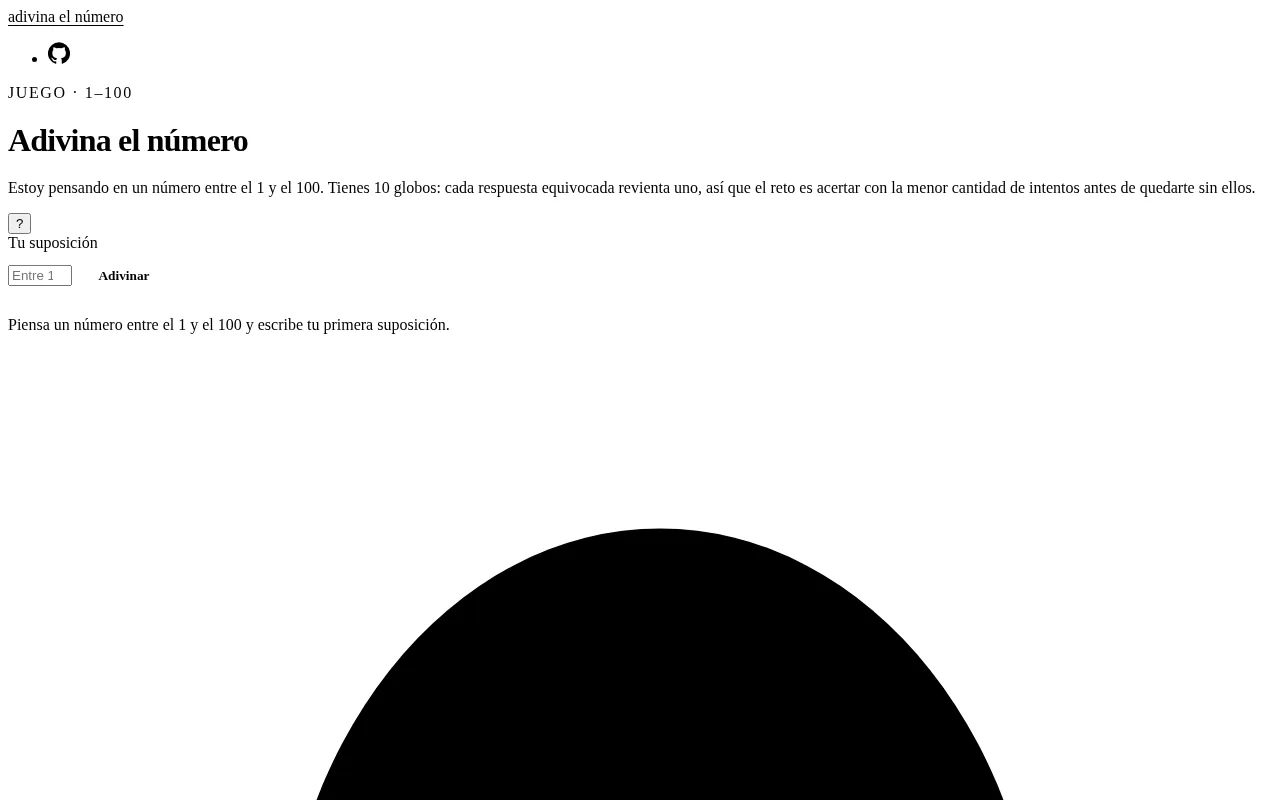
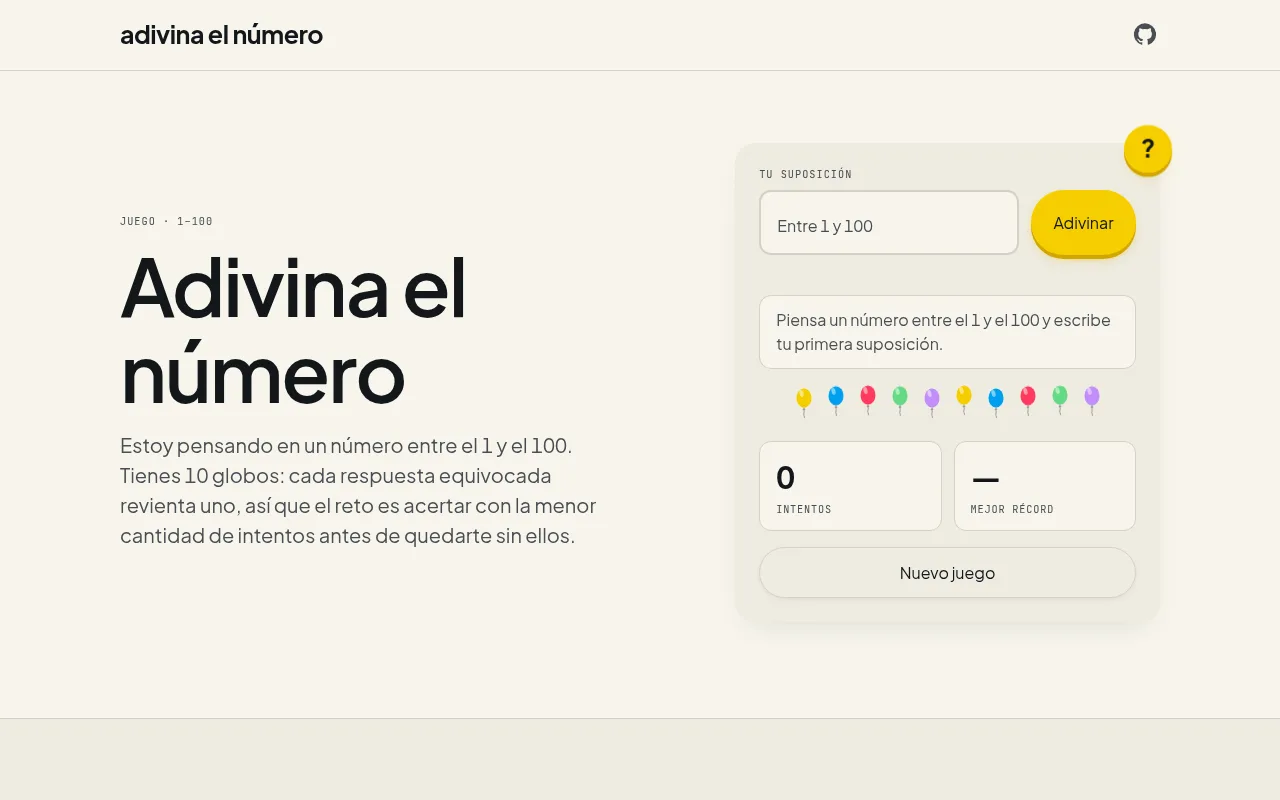
fix/webs: Apis deja de ser subcatálogo y recupera su CSS el juego de adivinar (#141)
El portal de APIs se anunciaba como subcatálogo aunque es una web normal, así
que se retira la marca. En el juego, los @import quedaron dentro de @layer base
y el navegador los descartaba: reset, tokens, componentes y página no llegaban
a cargarse.

🤖 Generated with Codebuff

diff --git a/web-juegos/juego-adivina-numero/css/style.css b/web-juegos/juego-adivina-numero/css/style.css
@@ -1,10 +1,3 @@
-@layer base {
-/* Hallmark · genre: playful · macrostructure: Marquee Hero · theme: Hum
- * enrichment: none (typography only, Tier-A CSS character mark) · nav: N1a · footer: Ft8
- * pre-emit critique: P5 H4 E5 S4 R5 V5
- * contrast: pass (40–41) · slop: pass (42–45) · honest: pass (46) · chrome: pass (47)
- * tokens: pass (48) · responsive: pass (49) · mobile: pass (34, 49, 50–57) */
-
 @import url("reset.css");
 @import url("tokens.css");
 @import url("components/game.css");
@@ -12,169 +5,182 @@
 @import url("components/balloons.css");
 @import url("pages/home.css");
 
-/* ── Base ─────────────────────────────────────────── */
-html,
-body {
-  overflow-x: clip;
-}
+@layer base {
+    /* Hallmark · genre: playful · macrostructure: Marquee Hero · theme: Hum
+ * enrichment: none (typography only, Tier-A CSS character mark) · nav: N1a · footer: Ft8
+ * pre-emit critique: P5 H4 E5 S4 R5 V5
+ * contrast: pass (40–41) · slop: pass (42–45) · honest: pass (46) · chrome: pass (47)
+ * tokens: pass (48) · responsive: pass (49) · mobile: pass (34, 49, 50–57) */
 
-body {
-  background: var(--color-paper);
-  color: var(--color-ink);
-  font-family: var(--font-body);
-  font-variant-numeric: tabular-nums;
-}
+    /* ── Base ─────────────────────────────────────────── */
+    html,
+    body {
+        overflow-x: clip;
+    }
 
-h1,
-h2,
-h3 {
-  font-family: var(--font-display);
-  font-weight: 600;
-  letter-spacing: -0.025em;
-  line-height: 1.08;
-}
+    body {
+        background: var(--color-paper);
+        color: var(--color-ink);
+        font-family: var(--font-body);
+        font-variant-numeric: tabular-nums;
+    }
 
-a {
-  color: var(--color-accent-2);
-  text-underline-offset: 3px;
-  text-decoration-thickness: 1px;
-}
+    h1,
+    h2,
+    h3 {
+        font-family: var(--font-display);
+        font-weight: 600;
+        letter-spacing: -0.025em;
+        line-height: 1.08;
+    }
 
-:focus-visible {
-  outline: 3px solid var(--color-focus);
-  outline-offset: 3px;
-}
+    a {
+        color: var(--color-accent-2);
+        text-underline-offset: 3px;
+        text-decoration-thickness: 1px;
+    }
 
-/* Etiquetas en mono: solo para labels cortos y mayúsculas */
-.mono-label {
-  font-family: var(--font-label);
-  font-size: var(--text-xs);
-  letter-spacing: 0.1em;
-  text-transform: uppercase;
-  color: var(--color-ink-2);
-}
+    :focus-visible {
+        outline: 3px solid var(--color-focus);
+        outline-offset: 3px;
+    }
 
-.visually-hidden {
-  position: absolute;
-  width: 1px;
-  height: 1px;
-  padding: 0;
-  margin: -1px;
-  overflow: hidden;
-  clip: rect(0 0 0 0);
-  white-space: nowrap;
-  border: 0;
-}
+    /* Etiquetas en mono: solo para labels cortos y mayúsculas */
+    .mono-label {
+        font-family: var(--font-label);
+        font-size: var(--text-xs);
+        letter-spacing: 0.1em;
+        text-transform: uppercase;
+        color: var(--color-ink-2);
+    }
 
-.skip-link {
-  position: absolute;
-  top: var(--space-sm);
-  left: var(--page-gutter);
-  z-index: var(--z-sticky);
-  transform: translateY(-300%);
-  padding: var(--space-sm) var(--space-md);
-  border-radius: var(--radius-pill);
-  background: var(--color-ink);
-  color: var(--color-paper);
-  font-weight: 600;
-  text-decoration: none;
-  transition: transform var(--dur-short) var(--ease-out);
-}
+    .visually-hidden {
+        position: absolute;
+        width: 1px;
+        height: 1px;
+        padding: 0;
+        margin: -1px;
+        overflow: hidden;
+        clip: rect(0 0 0 0);
+        white-space: nowrap;
+        border: 0;
+    }
 
-.skip-link:focus-visible {
-  transform: translateY(0);
-}
+    .skip-link {
+        position: absolute;
+        top: var(--space-sm);
+        left: var(--page-gutter);
+        z-index: var(--z-sticky);
+        transform: translateY(-300%);
+        padding: var(--space-sm) var(--space-md);
+        border-radius: var(--radius-pill);
+        background: var(--color-ink);
+        color: var(--color-paper);
+        font-weight: 600;
+        text-decoration: none;
+        transition: transform var(--dur-short) var(--ease-out);
+    }
 
-/* ── Sistema de botones Hum (push / soft) ────────── */
-.btn {
-  --btn-face: var(--color-accent);
-  --btn-ink: var(--color-ink);
-  --btn-edge: var(--color-accent-deep);
-  --btn-cast: var(--shadow-btn-cast);
-  display: inline-flex;
-  align-items: center;
-  justify-content: center;
-  gap: 0.5em;
-  min-height: 3rem;
-  padding: 0.8rem 1.4rem;
-  font-family: var(--font-body);
-  font-weight: 600;
-  border: 0;
-  border-radius: var(--radius-pill);
-  color: var(--btn-ink);
-  background: var(--btn-face);
-  cursor: pointer;
-  position: relative;
-  isolation: isolate;
-  white-space: nowrap;
-  box-shadow: 0 4px 0 0 var(--btn-edge), 0 6px 12px -3px var(--btn-cast);
-  transform: translateY(0);
-  transition: transform 140ms cubic-bezier(0.2, 0.7, 0.3, 1),
-    box-shadow 140ms cubic-bezier(0.2, 0.7, 0.3, 1),
-    background-color 160ms var(--ease-out);
-}
+    .skip-link:focus-visible {
+        transform: translateY(0);
+    }
 
-.btn:hover {
-  transform: translateY(-2px);
-  box-shadow: 0 6px 0 0 var(--btn-edge), 0 12px 22px -4px var(--btn-cast);
-}
+    /* ── Sistema de botones Hum (push / soft) ────────── */
+    .btn {
+        --btn-face: var(--color-accent);
+        --btn-ink: var(--color-ink);
+        --btn-edge: var(--color-accent-deep);
+        --btn-cast: var(--shadow-btn-cast);
+        display: inline-flex;
+        align-items: center;
+        justify-content: center;
+        gap: 0.5em;
+        min-height: 3rem;
+        padding: 0.8rem 1.4rem;
+        font-family: var(--font-body);
+        font-weight: 600;
+        border: 0;
+        border-radius: var(--radius-pill);
+        color: var(--btn-ink);
+        background: var(--btn-face);
+        cursor: pointer;
+        position: relative;
+        isolation: isolate;
+        white-space: nowrap;
+        box-shadow:
+            0 4px 0 0 var(--btn-edge),
+            0 6px 12px -3px var(--btn-cast);
+        transform: translateY(0);
+        transition:
+            transform 140ms cubic-bezier(0.2, 0.7, 0.3, 1),
+            box-shadow 140ms cubic-bezier(0.2, 0.7, 0.3, 1),
+            background-color 160ms var(--ease-out);
+    }
 
-.btn:active {
-  transform: translateY(3px);
-  box-shadow: 0 1px 0 0 var(--btn-edge), 0 2px 6px -2px var(--btn-cast);
-  transition-duration: 70ms;
-}
+    .btn:hover {
+        transform: translateY(-2px);
+        box-shadow:
+            0 6px 0 0 var(--btn-edge),
+            0 12px 22px -4px var(--btn-cast);
+    }
 
-.btn:focus-visible {
-  outline: 3px solid
-    color-mix(in oklch, var(--btn-edge) 70%, var(--color-focus));
-  outline-offset: 3px;
-}
+    .btn:active {
+        transform: translateY(3px);
+        box-shadow:
+            0 1px 0 0 var(--btn-edge),
+            0 2px 6px -2px var(--btn-cast);
+        transition-duration: 70ms;
+    }
 
-.btn[disabled] {
-  opacity: 0.5;
-  cursor: not-allowed;
-  pointer-events: none;
-  transform: none;
-  box-shadow: 0 4px 0 0 var(--btn-edge);
-}
+    .btn:focus-visible {
+        outline: 3px solid color-mix(in oklch, var(--btn-edge) 70%, var(--color-focus));
+        outline-offset: 3px;
+    }
 
-.btn--soft {
-  --btn-face: var(--color-paper-2);
-  --btn-ink: var(--color-ink);
-  --btn-edge: transparent;
-  --btn-cast: var(--shadow-soft);
-  border: 1px solid var(--color-rule);
-  box-shadow: var(--shadow-soft);
-}
+    .btn[disabled] {
+        opacity: 0.5;
+        cursor: not-allowed;
+        pointer-events: none;
+        transform: none;
+        box-shadow: 0 4px 0 0 var(--btn-edge);
+    }
 
-.btn--soft:hover {
-  box-shadow: var(--shadow-soft-hover);
-}
+    .btn--soft {
+        --btn-face: var(--color-paper-2);
+        --btn-ink: var(--color-ink);
+        --btn-edge: transparent;
+        --btn-cast: var(--shadow-soft);
+        border: 1px solid var(--color-rule);
+        box-shadow: var(--shadow-soft);
+    }
 
-.btn--soft:active {
-  box-shadow: var(--shadow-soft-press);
-}
+    .btn--soft:hover {
+        box-shadow: var(--shadow-soft-hover);
+    }
+
+    .btn--soft:active {
+        box-shadow: var(--shadow-soft-press);
+    }
 }
 
 @layer accesibilidad {
-@media (prefers-reduced-motion: reduce) {
-          *,
-          *::before,
-          *::after {
+    @media (prefers-reduced-motion: reduce) {
+        *,
+        *::before,
+        *::after {
             animation-duration: 150ms;
             animation-iteration-count: 1;
             transition-duration: 150ms;
-          }
+        }
 
-          .game-mark,
-          .star-burst,
-          .foot-marquee__track {
+        .game-mark,
+        .star-burst,
+        .foot-marquee__track {
             animation: none;
-          }
+        }
 
-          .star-burst {
+        .star-burst {
             display: none;
-          }
+        }
     }
 }
